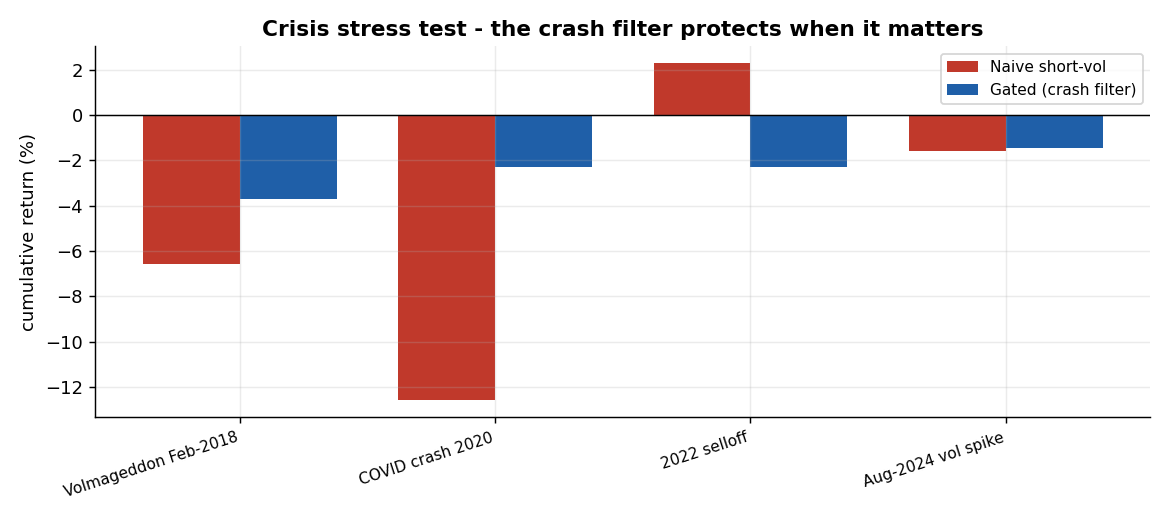
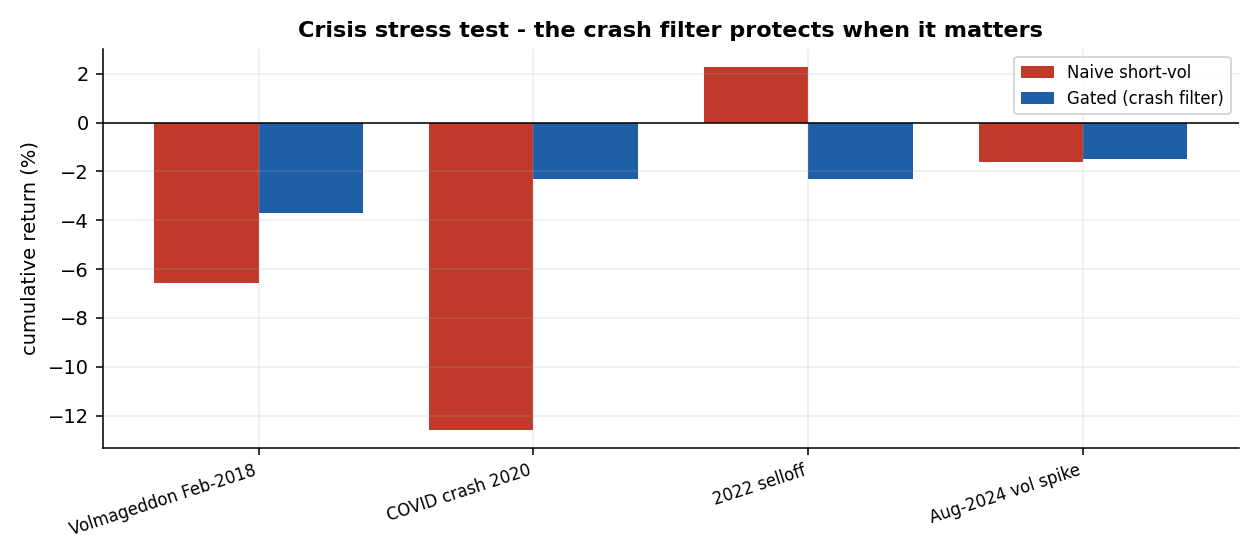
Polish robustness figures (Monte-Carlo KDE/CI), add risk contribution & autocall sensitivity

diff --git a/scripts/run_robustness.py b/scripts/run_robustness.py
@@ -10,23 +10,47 @@ import matplotlib
 matplotlib.use("Agg")
 import matplotlib.pyplot as plt
 
+from scipy.stats import gaussian_kde
 from src.data import load
 from src.strategy import build
 from src.robustness import crisis_table, block_bootstrap, CRISES
 from src.metrics import vol_target, performance
 
 ASSETS, REPORTS = REPO / "docs" / "assets", REPO / "reports"
-plt.rcParams.update({"figure.dpi": 130, "savefig.dpi": 130, "axes.grid": True,
-                     "grid.alpha": 0.25, "axes.spines.top": False,
-                     "axes.spines.right": False, "font.size": 10, "figure.autolayout": True})
+plt.rcParams.update({"figure.dpi": 140, "savefig.dpi": 140, "axes.grid": True,
+                     "grid.alpha": 0.22, "axes.spines.top": False, "axes.spines.right": False,
+                     "font.size": 10, "axes.titlesize": 11.5, "figure.autolayout": True,
+                     "axes.titleweight": "bold"})
 BLUE, RED, GREY = "#1f5fa8", "#c0392b", "#7f8c8d"
+
+
+def plot_bootstrap(sh, dd, title, path, color=BLUE):
+    """Polished 2-panel Monte-Carlo figure: KDE + shaded 90% CI + median + P(>0)."""
+    sh, dd = np.asarray(sh), np.asarray(dd) * 100
+    fig, axes = plt.subplots(1, 2, figsize=(11, 4.2))
+    for ax, data, lab, fmt, is_sh in [(axes[0], sh, "Annualized Sharpe", "{:+.2f}", True),
+                                      (axes[1], dd, "Max Drawdown (%)", "{:.0f}", False)]:
+        lo, hi, med = *np.percentile(data, [5, 95]), np.median(data)
+        ax.hist(data, bins=45, density=True, color=color, alpha=.16, edgecolor="none")
+        xs = np.linspace(data.min(), data.max(), 300); kde = gaussian_kde(data)(xs)
+        ax.plot(xs, kde, color=color, lw=2.2)
+        ax.fill_between(xs, kde, where=(xs >= lo) & (xs <= hi), color=color, alpha=.30)
+        ax.axvline(med, color=RED, lw=1.5, ls="--")
+        ax.set_title(lab); ax.set_yticks([]); ax.margins(x=0.01)
+        txt = f"90% CI [{fmt.format(lo)}, {fmt.format(hi)}]\nmedian {fmt.format(med)}"
+        if is_sh:
+            ax.axvline(0, color="black", lw=.9); txt += f"\nP(Sharpe>0) = {(data > 0).mean():.0%}"
+        ax.text(.03, .96, txt, transform=ax.transAxes, fontsize=8.5, va="top",
+                bbox=dict(boxstyle="round,pad=0.35", fc="white", ec=color, alpha=.9))
+    fig.suptitle(title, fontweight="bold", fontsize=12.5)
+    fig.tight_layout(rect=[0, 0, 1, 0.95]); fig.savefig(path, bbox_inches="tight"); plt.close(fig)
 
 
 def main():
     res = build(load(REPO / "data"))
     naive, carry = res["ret_naive"], res["ret_carry"]
     ct = crisis_table(naive, carry)
-    sh = block_bootstrap(carry)
+    sh, dd = block_bootstrap(carry)
     lo, hi = np.percentile(sh, [5, 95])
 
     print("=" * 68)
@@ -48,14 +72,9 @@ def main():
     ax.set_ylabel("cumulative return (%)"); ax.legend(fontsize=8.5)
     fig.savefig(ASSETS / "robust_crisis.png"); plt.close(fig)
 
-    # bootstrap
-    fig, ax = plt.subplots(figsize=(7.5, 3.6))
-    ax.hist(sh, bins=40, color=BLUE, alpha=.7)
-    ax.axvline(0, color="black", lw=.8); ax.axvline(np.median(sh), color=RED, ls="--", lw=1,
-                                                    label=f"median {np.median(sh):+.2f}")
-    ax.set_title("Bootstrap distribution of Sharpe - gated vol-carry (2000 resamples)", fontweight="bold")
-    ax.set_xlabel("Sharpe"); ax.legend(fontsize=8)
-    fig.savefig(ASSETS / "robust_bootstrap_sharpe.png"); plt.close(fig)
+    # bootstrap (polished Monte-Carlo figure)
+    plot_bootstrap(sh, dd, "VIX Vol-Carry - Monte-Carlo robustness (2000 block-bootstrap resamples)",
+                   ASSETS / "robust_bootstrap_sharpe.png")
 
     L = ["# Robustness — VIX Vol-Carry", "",
          "## Crisis stress tests (cumulative return, vol-targeted 10%)", "",
